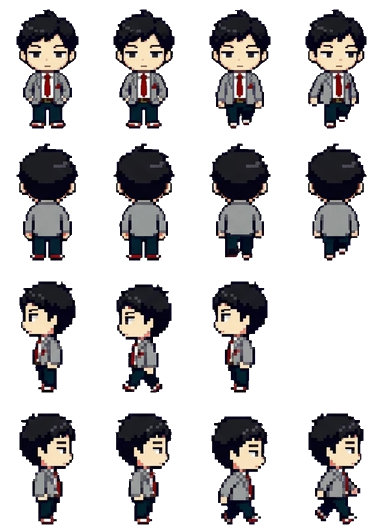
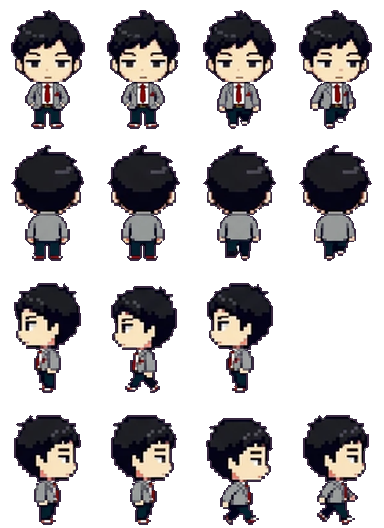
Fit Nozaki to the new boys' size, head ratio and outline color
Claude-Session: https://claude.ai/code/session_01KaPsBYLrtbRfMYNG2xeBCK

diff --git a/docs/app.js b/docs/app.js
@@ -75,7 +75,7 @@ function spr(cat, k, col, sc) {
   return `<div class="clip" style="width:${it[2] * sc}px;height:${it[3] * sc}px;POS"><img class="px" src="assets/decor/${cat}.png" alt="" style="width:${S.sw * sc}px;height:${S.sh * sc}px;margin-left:${-col * S.cw * sc}px;margin-top:${-i * S.ch * sc}px"></div>`;
 }
 const icon = (k, sz) => `<span class="itm" style="width:${sz}px;height:${sz}px"><img class="px" src="assets/ui/items.png" alt="" style="width:${IT.length * sz}px;height:${sz}px;margin-left:${-ITM[k].i * sz}px"></span>`;
-const face = (id, w) => { const s = w / 96; return `<img class="px" src="assets/ch/${id}.webp?v=38" alt="" style="position:absolute;width:${384 * s}px;height:${528 * s}px;left:${-(96 * s - w) / 2}px;top:0;max-width:none">`; };
+const face = (id, w) => { const s = w / 96; return `<img class="px" src="assets/ch/${id}.webp?v=39" alt="" style="position:absolute;width:${384 * s}px;height:${528 * s}px;left:${-(96 * s - w) / 2}px;top:0;max-width:none">`; };
 
 // ---------- 저장 ----------
 let fb = null, user = null, S = null, saveT = null;
@@ -143,7 +143,7 @@ function sleepHTML(id, r, dy) {
   const pos = r.a && r.a[0] === 'bed' ? 'left:3%;bottom:20%' : r.b && r.b[0] === 'bed' ? 'right:3%;bottom:20%' : 'left:calc(50% - 44px);bottom:6%';
   const s = 36 / 96;
   return `<div style="position:absolute;width:88px;height:56px;${pos};z-index:${dy ? 4 : 5};${dy ? `transform:translate(12px,${dy}px)` : ''}"><div style="position:absolute;inset:0;filter:brightness(.22)">
-    <div style="position:absolute;left:11px;top:1px;width:36px;height:50px;overflow:hidden;transform:rotate(-90deg)"><img class="px" src="assets/ch/${id}.webp?v=38" alt="" style="width:${384 * s}px;height:${528 * s}px;max-width:none;margin-top:${-132 * s}px"></div>
+    <div style="position:absolute;left:11px;top:1px;width:36px;height:50px;overflow:hidden;transform:rotate(-90deg)"><img class="px" src="assets/ch/${id}.webp?v=39" alt="" style="width:${384 * s}px;height:${528 * s}px;max-width:none;margin-top:${-132 * s}px"></div>
     <div style="position:absolute;left:19px;top:19px;width:67px;height:29px;border:2px solid var(--ink);border-radius:8px 6px 4px 4px;background:#8ccff5;background-image:repeating-linear-gradient(90deg,transparent 0 10px,rgba(255,255,255,.5) 10px 13px)"></div></div>
     ${dy ? '' : '<span class="emo" style="left:8px;top:-22px;color:#5b6bd6">Z z z</span>'}</div>`;
 }
@@ -153,8 +153,8 @@ function roomHTML(id, o, scale) {
     <div class="floor" style="background-color:${PAL[r.fc][1]};background-image:${tileUrl('floor', r.fl)}"></div>
     ${slot('deco', r.dc, 'left:6%;top:6%')}${slot('furn', r.a, 'left:3%;bottom:20%')}${slot('furn', r.b, 'right:3%;bottom:20%')}${slot('prop', r.pr, 'left:28%;bottom:4%;z-index:2')}
     ${id && o.sleeping && g ? sleepHTML(g, r, -16) : ''}${id && o.sleeping ? sleepHTML(id, r) : ''}${id && o.job ? `<div style="position:absolute;left:50%;top:38%;transform:translateX(-50%);z-index:5;background:#fff;border:3px solid var(--ink);border-radius:10px;padding:6px 10px;font-size:11px;text-align:center;line-height:1.5"><img src="assets/ui/ic_job.png" alt="" style="width:18px;vertical-align:-4px"> ${WORK[id] ? WORK[id][1] : esc(JOB_NAME[id]) + ' 알바 중'}${g ? `<br><small>${esc(nameOf(g))}도 같이</small>` : ''}<br><b id="jobleft">${timeLeft(o.job.until)}</b></div>` : ''}
-    ${id ? `<div class="shadow" id="shd" ${o.sleeping || o.job ? 'style="display:none"' : ''}></div><div class="man" id="man" ${o.sleeping || o.job ? 'style="display:none"' : ''}><img class="px" src="assets/ch/${id}.webp?v=38" alt="${esc(nameOf(id))}"></div><span class="emo" id="emo" hidden></span><span class="mumble" id="mum" hidden></span>` : ''}
-    ${g ? `<div class="shadow" id="gshd" ${hideG}></div><div class="man" id="gman" ${hideG}><img class="px" src="assets/ch/${g}.webp?v=38" alt="${esc(nameOf(g))}"></div><span class="emo" id="gemo" hidden></span><span class="mumble gmum" id="gmum" hidden></span>` : ''}
+    ${id ? `<div class="shadow" id="shd" ${o.sleeping || o.job ? 'style="display:none"' : ''}></div><div class="man" id="man" ${o.sleeping || o.job ? 'style="display:none"' : ''}><img class="px" src="assets/ch/${id}.webp?v=39" alt="${esc(nameOf(id))}"></div><span class="emo" id="emo" hidden></span><span class="mumble" id="mum" hidden></span>` : ''}
+    ${g ? `<div class="shadow" id="gshd" ${hideG}></div><div class="man" id="gman" ${hideG}><img class="px" src="assets/ch/${g}.webp?v=39" alt="${esc(nameOf(g))}"></div><span class="emo" id="gemo" hidden></span><span class="mumble gmum" id="gmum" hidden></span>` : ''}
     ${o.sleeping ? `<div class="night"></div><div class="sleepleft">쿨쿨 · 일어나기까지 <b id="sleepleft">${timeLeft(wakeAt(o)).replace(' 남음', '')}</b></div>` : ''}
   </div>`;
 }
@@ -167,7 +167,7 @@ function meterHTML(o) {
 const ic = (act, img, label, pressed) => `<button class="ic" data-act="${act}" ${pressed ? 'aria-pressed="true"' : ''}><img src="assets/ui/ic_${img}.png?v=2" alt="">${label}</button>`;
 
 let dropStyle = null; const cheat = {};
-const APP_V = 110, COUPONS = { NINOGUYA: 3000 };
+const APP_V = 111, COUPONS = { NINOGUYA: 3000 };
 // 쿠폰 입력 정리: 한글 자판 상태로 친 글자(ㅜㅑㅜㅐ혀ㅛㅁ)도 영어 자판 글자로 바꾸고, 대소문자·띄어쓰기·마침표는 무시해요
 const KEY = { ㄱ: 'r', ㄲ: 'R', ㄴ: 's', ㄷ: 'e', ㄸ: 'E', ㄹ: 'f', ㅁ: 'a', ㅂ: 'q', ㅃ: 'Q', ㅅ: 't', ㅆ: 'T', ㅇ: 'd', ㅈ: 'w', ㅉ: 'W', ㅊ: 'c', ㅋ: 'z', ㅌ: 'x', ㅍ: 'v', ㅎ: 'g',
   ㅏ: 'k', ㅐ: 'o', ㅑ: 'i', ㅒ: 'O', ㅓ: 'j', ㅔ: 'p', ㅕ: 'u', ㅖ: 'P', ㅗ: 'h', ㅘ: 'hk', ㅙ: 'ho', ㅚ: 'hl', ㅛ: 'y', ㅜ: 'n', ㅝ: 'nj', ㅞ: 'np', ㅟ: 'nl', ㅠ: 'b', ㅡ: 'm', ㅢ: 'ml', ㅣ: 'l',
@@ -407,7 +407,7 @@ function startTrip(k) {
   if (tg) lines[1] = `${nameOf(tg)}: ${withHim(sub(pick(GLX(tg).trip), o, c.n), tg)}`;
   const n = (FR[id] || [4, 4, 4, 4])[3], el = document.createElement('div'); el.className = 'tripview';
   el.innerHTML = `<div class="tsay"> </div><div class="tstage" style="background-image:url(assets/travel/${k}.png?v=2)"><div class="tplace">${esc(c.n)}</div>
-    <div class="twalker"><img class="px" src="assets/ch/${id}.webp?v=38" alt=""></div>${tg ? `<div class="twalker tgirl"><img class="px" src="assets/ch/${tg}.webp?v=38" alt=""></div>` : ''}<span class="emo tjoy">♪</span></div>
+    <div class="twalker"><img class="px" src="assets/ch/${id}.webp?v=39" alt=""></div>${tg ? `<div class="twalker tgirl"><img class="px" src="assets/ch/${tg}.webp?v=39" alt=""></div>` : ''}<span class="emo tjoy">♪</span></div>
     <div class="tbar"><i></i></div><button class="btn white tskip" data-tskip="1">바로 돌아오기</button>`;
   document.body.appendChild(el);
   const gimg = el.querySelector('.tgirl img'), gn = tg ? (FR[tg] || [4, 4, 4, 4])[3] : 1;
@@ -636,7 +636,7 @@ setInterval(() => { if (S && user) { tickTime(); save(); } }, 60000);
     if (nv > APP_V && !location.search.includes('u=' + nv)) { location.replace(location.pathname + '?u=' + nv); return; }
   } catch { }
   app.innerHTML = '<div class="start"><div class="egg"><div class="scr"></div></div><div class="note">불러오는 중....</div></div>';
-  const [c, t, f, it, mu, ct, tv, gl, sts] = await Promise.all(['data/chars.json', 'data/talk.json', 'data/frames.json', 'data/items.json', 'data/mumble.json', 'data/countries.json', 'data/travel.json', 'data/girls.json', 'data/sets.json'].map(u => fetch(u + '?v=110').then(r => r.ok ? r.json() : {})));
+  const [c, t, f, it, mu, ct, tv, gl, sts] = await Promise.all(['data/chars.json', 'data/talk.json', 'data/frames.json', 'data/items.json', 'data/mumble.json', 'data/countries.json', 'data/travel.json', 'data/girls.json', 'data/sets.json'].map(u => fetch(u + '?v=111').then(r => r.ok ? r.json() : {})));
   CH = c; CHM = Object.fromEntries(c.map(x => [x.id, x])); TALK = t; FR = f; IT = it; ITM = Object.fromEntries(it.map(x => [x.k, x])); MUM = mu; CTRY = ct; TRV = tv; GL = Array.isArray(gl) ? gl : []; SETS = Array.isArray(sts) ? sts : []; GLM = Object.fromEntries(GL.map(x => [x.id, x]));
   try { await initFirebase(); } catch (e) { console.warn('Firebase 연결 실패, 기기 저장으로', e); fb = null; }
   if (fb) {

diff --git a/docs/index.html b/docs/index.html
@@ -18,6 +18,6 @@
 <main id="app" aria-live="polite"></main>
 <div id="toast" role="status" hidden></div>
 <script src="firebase-config.js?v=3"></script>
-<script type="module" src="app.js?v=110"></script>
+<script type="module" src="app.js?v=111"></script>
 </body>
 </html>

diff --git a/tk_fit_boy.py b/tk_fit_boy.py
@@ -1,0 +1,30 @@
+"""예전 그림체 남자애를 새 그림체 남자애들 크기·비율·외곽선에 맞춰요.
+사용: python3 tk_fit_boy.py <id>   (기준: 새로 뽑은 남자애들의 평균 키·머리 비율)"""
+import sys, json, numpy as np
+from PIL import Image
+from scipy import ndimage
+import tk_match as T
+FW, FH = 96, 132
+REF = ['mole', 'blonde_student', 'blue', 'punk', 'mint', 'bartender']
+def target():
+    ms = [T.measure(T.load(i)[:FH, :FW]) for i in REF]
+    fw, tw, c, h = [float(np.mean([m[k] for m in ms])) for k in range(4)]
+    return fw, tw, c, h
+def fit(cid):
+    a = T.load(cid); fr = json.load(open('docs/data/frames.json'))[cid]
+    fw, tw, c, h = target(); nfw, ntw, nc, nh = T.measure(a[:FH, :FW])
+    sh = c / nc; sbh = (h - c) / max(nh - nc, 1); sbw = np.clip(tw / max(ntw, 1), .9, 1.4)
+    sc = (sh, sbh, sbw, nc / nh); out = np.zeros_like(a)
+    for r in range(4):
+        for k in range(fr[r]):
+            f = a[r * FH:(r + 1) * FH, k * FW:(k + 1) * FW]
+            if not (f[..., 3] > 0).any(): continue
+            _, fb, _, _ = T.bbox(f); out[r * FH:(r + 1) * FH, k * FW:(k + 1) * FW] = T.place(T.reshape(f, sc), fb)
+    # 외곽선: 바깥 테두리의 새까만 픽셀을 새 그림체의 남보라(#382840)로
+    al = out[..., 3] > 0; edge = al & ~ndimage.binary_erosion(al, iterations=2)
+    dk = out[..., :3].max(2) < 70
+    out[edge & dk, :3] = [56, 40, 64]
+    Image.fromarray(out).save(f'docs/assets/ch/{cid}.webp', 'WEBP', lossless=True)
+    return [round(float(x), 2) for x in sc]
+if __name__ == '__main__':
+    print(fit(sys.argv[1]))
